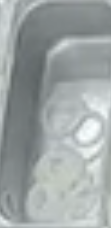
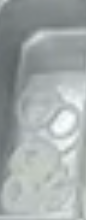
Color Analysis Onion

diff --git a/02. Color analysis/color_analysis_onion.py b/02. Color analysis/color_analysis_onion.py
@@ -3,83 +3,64 @@ import numpy as np
 import os
 import matplotlib.pyplot as plt
 
-def analyze_onion_true_fidelity(folder_path):
+def analyze_onion_narrow_band(folder_path):
     if not os.path.exists(folder_path):
         print("Error: Carpeta no encontrada.")
         return
 
     files = sorted([f for f in os.listdir(folder_path) if f.endswith('.png')])
+    if not files:
+        print("No se encontraron imágenes PNG.")
+        return
+
     results_data = []
 
-    print(f"{'ARCHIVO':<25} | {'% OCUPACIÓN':<15}")
+    print(f"{'ARCHIVO':<30} | {'% FINAL':<10}")
     print("-" * 45)
 
     for filename in files:
         path = os.path.join(folder_path, filename)
         img = cv2.imread(path)
         if img is None: continue
-
-        # 1. SUAVIZADO LIGERO
-        blur = cv2.GaussianBlur(img, (3, 3), 0)
-
-        # 2. LAB - CANAL B
-        lab = cv2.cvtColor(blur, cv2.COLOR_BGR2LAB)
-        l, a, b = cv2.split(lab)
-
-        # 3. UMBRAL FIEL (128)
-        # Atrapa todo lo que no sea fondo azul puro.
-        _, mask_heat = cv2.threshold(b, 130, 255, cv2.THRESH_BINARY)
-
-        # 4. PROTECCIÓN CONTRA BRILLOS
-        _, mask_glare = cv2.threshold(l, 250, 255, cv2.THRESH_BINARY)
-        mask = cv2.subtract(mask_heat, mask_glare)
-
-        # --- MARCO DE SEGURIDAD MÍNIMO ---
-        # Solo 5px para evitar ruido del borde extremo de la cámara.
-        h, w = mask.shape
-        cv2.rectangle(mask, (0,0), (w, h), 0, thickness=5)
-
-        # --- MORFOLOGÍA DE "FIDELIDAD" ---
-        # NO USAMOS CLOSE NI DILATE para no tapar huecos.
         
-        # Usamos OPEN suave (3x3) para separar islas que apenas se tocan.
-        # Esto permite que se formen múltiples contornos separados.
-        kernel_sep = np.ones((3,3), np.uint8)
-        mask = cv2.morphologyEx(mask, cv2.MORPH_OPEN, kernel_sep, iterations=1)
+        h_img, w_img = img.shape[:2]
 
-        # 5. FILTRO DE ÁREA (CERO)
-        # Si existe, se dibuja. Esto incluye migajas y huecos internos.
-        contours, hierarchy = cv2.findContours(mask, cv2.RETR_TREE, cv2.CHAIN_APPROX_SIMPLE)
-        mask_final = np.zeros_like(mask)
-        
-        # Dibujamos todos los contornos (externos e internos/huecos)
-        for i, cnt in enumerate(contours):
-            if cv2.contourArea(cnt) > 0:
-                # Usamos RETR_TREE y hierarchy para dibujar correctamente los huecos
-                cv2.drawContours(mask_final, contours, i, 255, -1, hierarchy=hierarchy)
-        mask = mask_final
+        # 1. ATENUACIÓN (Mantenemos tu idea de bajar brillo)
+        img_dimmed = cv2.convertScaleAbs(img, alpha=0.8, beta=0)
+        gray = cv2.cvtColor(img_dimmed, cv2.COLOR_BGR2GRAY)
 
-        # CALCULAR
-        food_pixels = cv2.countNonZero(mask)
-        total_pixels = img.shape[0] * img.shape[1]
+        # 2. FILTRO DE BANDA ESTRECHA (Solo lo Amarillo/Naranja)
+        # - Límite Inferior: 145 (Elimina Verde/Cyan)
+        # - Límite Superior: 170 (Elimina Rojo/Reflejos)
+        mask_final = cv2.inRange(gray, 145, 170)
+
+        # --- CÁLCULO ---
+        food_pixels = cv2.countNonZero(mask_final)
+        total_pixels = h_img * w_img
         percent = (food_pixels / total_pixels) * 100
 
-        # VISUALIZAR
+        # --- VISUALIZACIÓN ---
         img_visual = img.copy()
-        # Volvemos a buscar para dibujar la línea verde final
-        final_contours, final_hierarchy = cv2.findContours(mask, cv2.RETR_TREE, cv2.CHAIN_APPROX_SIMPLE)
-        # Grosor 1 para máxima precisión visual
-        cv2.drawContours(img_visual, final_contours, -1, (0, 255, 0), 1, hierarchy=final_hierarchy)
-        img_visual_rgb = cv2.cvtColor(img_visual, cv2.COLOR_BGR2RGB)
+        
+        # Usamos RETR_TREE para ver huecos
+        contours_full, _ = cv2.findContours(mask_final, cv2.RETR_TREE, cv2.CHAIN_APPROX_NONE)
 
-        # MAPA DE CALOR (Referencia visual)
-        heatmap = cv2.normalize(b, None, 0, 255, cv2.NORM_MINMAX)
-        heatmap = cv2.applyColorMap(heatmap, cv2.COLORMAP_JET)
-        heatmap_rgb = cv2.cvtColor(heatmap, cv2.COLOR_BGR2RGB)
+        for cnt in contours_full:
+            if cv2.contourArea(cnt) > 0: 
+                cv2.drawContours(img_visual, [cnt], -1, (0, 255, 0), 2)
+        
+        # Mapa de calor
+        heatmap_view = cv2.applyColorMap(gray, cv2.COLORMAP_JET)
 
-        state_name = filename.split('.')[1].replace('_', ' ').title().strip()
-        results_data.append({'name': state_name, 'percent': percent, 'image': img_visual_rgb, 'heatmap': heatmap_rgb})
-        print(f"{filename:<25} | {percent:6.2f}%")
+        # CORRECCIÓN: Limpiamos el nombre quitando '.png'
+        state_name = filename.replace('.png', '')
+        
+        results_data.append({'name': state_name, 'percent': percent, 
+                             'image': cv2.cvtColor(img_visual, cv2.COLOR_BGR2RGB), 
+                             'heatmap': cv2.cvtColor(heatmap_view, cv2.COLOR_BGR2RGB)})
+        
+        # Imprimimos el nombre limpio
+        print(f"{state_name:<30} | {percent:6.2f}%")
 
     # GRAFICAR
     if not results_data: return
@@ -89,24 +70,25 @@ def analyze_onion_true_fidelity(folder_path):
     rows = math.ceil(num_images / cols) 
     
     fig = plt.figure(figsize=(16, 5 * rows))
-    plt.suptitle("Detección Fiel (Islas y Huecos basados en Mapa de Calor)", fontsize=16)
+    plt.suptitle("Onion", fontsize=16)
 
     for i in range(num_images):
         r = (i // cols); c = (i % cols)
+        
         ax_img = fig.add_subplot(rows * 2, cols, (r * 2 * cols) + c + 1)
         data = results_data[i]
         ax_img.imshow(data['image'])
-        ax_img.set_title(f"{data['name']}\n{data['percent']:.1f}%", fontsize=12, fontweight='bold')
+        ax_img.set_title(f"{data['name']}\n{data['percent']:.1f}%", fontsize=10, fontweight='bold')
         ax_img.axis('off')
 
         ax_heat = fig.add_subplot(rows * 2, cols, ((r * 2 + 1) * cols) + c + 1)
         ax_heat.imshow(data['heatmap'])
-        ax_heat.set_title("Mapa de Calor (Referencia)", fontsize=9)
+        ax_heat.set_title("Mapa de Calor", fontsize=9)
         ax_heat.axis('off')
 
     plt.tight_layout()
     plt.show()
 
 if __name__ == "__main__":
-    folder = "color_analysis/onion" 
-    analyze_onion_true_fidelity(folder)
+    folder = r"02. Color analysis\color_analysis\onion" 
+    analyze_onion_narrow_band(folder)

diff --git a/02. Color analysis/color_analysis_onion_README.md b/02. Color analysis/color_analysis_onion_README.md
@@ -1,0 +1,70 @@
+# Informe Técnico: Algoritmo de Segmentación Cromática y de Intensidad para Detección de Vegetales en Superficies Reflectantes
+
+**Fecha:** 26 de Noviembre, 2025  
+**Contexto:** Visión por Computador / Procesamiento de Imágenes  
+**Objeto de Estudio:** Segmentación de cebolla procesada en bandejas de acero inoxidable.
+
+---
+
+## 1. Resumen Ejecutivo
+El presente documento describe la metodología algorítmica implementada para la cuantificación automática de producto (cebolla) sobre contenedores metálicos. El desafío principal abordado es la **discriminación de luminancia** entre la materia orgánica (cebolla blanca/amarilla) y la superficie inorgánica (acero inoxidable), las cuales presentan coeficientes de reflexión similares, agravado por la presencia de reflejos especulares (glare) de la iluminación ambiental.
+
+La solución implementada evita el uso de modelos de aprendizaje profundo (Deep Learning) en favor de técnicas clásicas de **procesamiento de histograma y filtrado espacial**, optimizando el costo computacional y garantizando determinismo en los resultados.
+
+---
+
+## 2. Metodología
+
+El flujo de procesamiento (pipeline) consta de tres etapas fundamentales basadas en la física de la formación de la imagen:
+
+### 2.1. Transformación Lineal de Intensidad (Linear Contrast Scaling)
+
+Para mitigar la saturación provocada por los reflejos del metal y separarlos del albedo natural de la cebolla, se aplica una operación de punto de **reducción de ganancia**.
+
+Matemáticamente, la imagen de entrada $f(x,y)$ se transforma en $g(x,y)$ mediante la ecuación:
+
+$$g(x,y) = \alpha \cdot f(x,y) + \beta$$
+
+Donde:
+* **$\alpha = 0.8$ (Factor de escala):** Comprime el rango dinámico del histograma. Esto desplaza los valores de la cebolla (originalmente cercanos a la saturación) hacia la zona media del histograma, mientras que los reflejos especulares (saturación pura) se mantienen en el extremo superior, permitiendo su posterior separación.
+* **$\beta = 0$ (Offset):** No se aplica desplazamiento de brillo.
+
+**Objetivo Técnico:** Aumentar la separabilidad inter-clase entre los píxeles de "Materia Orgánica" y "Reflejo Especular".
+
+### 2.2. Segmentación por Corte de Intensidad (Intensity Slicing)
+
+Se implementa un **Filtro de Paso de Banda (Band-Pass Filter)** en el dominio de la intensidad de gris. A diferencia de la umbralización binaria simple ($T > x$), esta técnica define un intervalo de aceptación $[T_{min}, T_{max}]$ que actúa como una función rectangular de selección.
+
+Se genera una máscara binaria $M(x,y)$ tal que:
+
+$$M(x,y) = \begin{cases} 1 & \text{si } 145 \le g(x,y) \le 170 \\ 0 & \text{en otro caso} \end{cases}$$
+
+**Justificación de los Umbrales:**
+* **Límite Inferior ($T_{min} = 145$):** Rechazo de la banda de baja frecuencia (fondo metálico oscuro, sombras y tonos verdosos/cian en la visualización térmica).
+* **Límite Superior ($T_{max} = 170$):** Rechazo de la banda de alta frecuencia (reflejos especulares y zonas de saturación, correspondientes a los tonos rojos en la visualización térmica).
+* **Zona de Paso (Band-Pass):** Captura exclusiva de la "zona media-alta" del histograma, correspondiente a la pigmentación natural de la cebolla (tonos amarillos/naranjas).
+
+### 2.3. Extracción de Fronteras Topológicas (Boundary Extraction)
+
+Para la cuantificación del área, se extraen los contornos vectoriales de la máscara binaria $M(x,y)$. Se utiliza el algoritmo de **Seguimiento de Bordes (Border Following)** con dos características críticas:
+
+1.  **Análisis Topológico (`cv2.RETR_TREE`):**
+    El algoritmo recupera la jerarquía completa de los contornos anidados. Esto permite detectar no solo el perímetro exterior de la masa vegetal, sino también los **agujeros interiores**.
+    * *Aplicación:* Si una sección de la cebolla presenta un brillo excesivo (glare), el paso 2.2 la elimina (hueco negro). El análisis topológico identifica este hueco como "no perteneciente" al cálculo de área, mejorando la precisión.
+
+2.  **Codificación de Cadena No-Aproximada (`cv2.CHAIN_APPROX_NONE`):**
+    Se evita la aplicación de algoritmos de simplificación poligonal (como Ramer-Douglas-Peucker). Se almacenan todos los puntos $(x,y)$ de la frontera.
+    * *Resultado:* Se obtiene una representación morfológica **fiel y "pixel-perfecta"**, evitando la suavización artificial de los bordes que podría introducir errores de medición en texturas irregulares.
+
+---
+
+## 3. Resultados y Visualización
+
+La eficacia del algoritmo se valida mediante mapas de calor (Heatmaps) aplicados a la imagen en escala de grises pre-procesada:
+
+* **Zonas Frías (Azul/Verde):** Rechazadas por $T_{min}$ (Fondo).
+* **Zonas Cálidas (Naranja/Amarillo):** Aceptadas por el filtro de banda (Cebolla).
+* **Zonas Críticas (Rojo):** Rechazadas por $T_{max}$ (Reflejos).
+
+### Conclusión Técnica
+La combinación de **escalado lineal** previo a un **filtrado de banda estrecha** demuestra ser una estrategia robusta para entornos con iluminación no controlada sobre superficies metálicas, logrando aislar la materia de interés sin necesidad de entrenamiento de modelos estocásticos.

diff --git a/color_analysis_bacon_README.md b/color_analysis_bacon_README.md
@@ -1,0 +1,63 @@
+# Informe Técnico: Algoritmo de Segmentación Espectral para Detección de Proteína Cárnica (Tocino)
+
+**Fecha:** 26 de Noviembre, 2025  
+**Contexto:** Visión por Computador / Procesamiento de Imágenes  
+**Objeto de Estudio:** Segmentación de tocino frito en bandejas de acero inoxidable.
+
+---
+
+## 1. Resumen Ejecutivo
+El presente documento detalla la metodología algorítmica para la cuantificación de tocino. A diferencia de los vegetales claros, la proteína cárnica presenta una firma espectral distintiva en el canal rojo. La solución implementada explota la **aritmética de canales** para anular el fondo metálico (acromático) y utiliza una estrategia de **fusión de sensores virtuales** (RGB + HSV) para recuperar zonas de baja luminancia (zonas "quemadas" o muy oscuras).
+
+---
+
+## 2. Metodología
+
+El algoritmo evita el uso de umbralización simple por brillo, dado que la grasa del tocino y el metal pueden compartir niveles de intensidad. Se opta por un enfoque basado en crominancia:
+
+### 2.1. Diferenciación Espectral de Canales (Channel Subtraction)
+
+Se aprovecha la propiedad física de la superficie metálica: al ser gris/plateada, refleja la luz de manera uniforme en todo el espectro visible ($R \approx G \approx B$). Por el contrario, el tocino presenta una dominancia en la longitud de onda larga (Rojo).
+
+Se calcula una imagen de diferencia $D(x,y)$ mediante la sustracción aritmética del canal Verde ($G$) sobre el canal Rojo ($R$):
+
+$$D(x,y) = R(x,y) - G(x,y)$$
+
+**Fundamento Físico:**
+* **Fondo Metálico:** Como $R \approx G$, entonces $R - G \to 0$ (El fondo se vuelve negro).
+* **Tocino:** Como $R \gg G$, entonces $R - G \to \text{Valor Alto}$ (El objeto se resalta).
+
+### 2.2. Expansión del Rango Dinámico (Histogram Normalization)
+
+La señal resultante de la diferencia $D(x,y)$ puede tener un contraste bajo. Para garantizar una binarización robusta, se aplica una **Normalización Min-Max** para estirar el histograma y ocupar todo el rango de 8 bits $[0, 255]$:
+
+$$N(x,y) = \frac{D(x,y) - \min(D)}{\max(D) - \min(D)} \times 255$$
+
+Posteriormente, se aplica una umbralización binaria con corte en $T=135$ para aislar las zonas de alta crominancia roja.
+
+### 2.3. Fusión Multi-Espectral (RGB + HSV Fusion)
+
+La sustracción de canales (Paso 2.1) es excelente para la carne roja, pero falla en zonas carbonizadas o muy oscuras (donde $R$ y $G$ son ambos muy bajos). Para mitigar esto, se introduce una vía paralela de detección en el espacio de color **HSV (Matiz, Saturación, Valor)**.
+
+Se genera una máscara secundaria $M_{dark}$ dirigida específicamente a tonos marrones/oscuros:
+* **Matiz ($H$):** Rango $[0, 180]$ (Todo el espectro de rojos/naranjas).
+* **Saturación ($S$):** Rango $[20, 255]$ (Para evitar grises).
+* **Valor ($V$):** Rango $[0, 60]$ (Exclusivamente zonas muy oscuras).
+
+Finalmente, se realiza una operación lógica **OR (Unión)** entre la máscara espectral y la máscara HSV:
+
+$$M_{final} = M_{spectral} \cup M_{dark}$$
+
+### 2.4. Extracción de Fronteras de Alta Fidelidad
+
+Dado que el producto (tocino) presenta bordes irregulares y texturas finas que son críticas para una medición precisa del área, se ha suprimido deliberadamente cualquier operación de **Filtrado Morfológico** (Erosión/Dilatación).
+
+Se utiliza la extracción de contornos con codificación de cadena completa:
+* **Algoritmo:** `cv2.findContours` con `cv2.CHAIN_APPROX_NONE`.
+* **Justificación:** Se preserva la rugosidad natural del borde del objeto. La aproximación poligonal o el suavizado morfológico introducirían un sesgo negativo en el cálculo del área al "recortar" las irregularidades microscópicas propias de la textura del tocino.
+
+---
+
+## 3. Conclusión Técnica
+
+La estrategia implementada combina la **selectividad cromática** (para eliminar el fondo metálico que actúa como espejo neutro) con la **robustez en baja luminancia** del espacio HSV. La decisión de evitar el suavizado morfológico garantiza que la métrica de ocupación refleje la geometría real y "cruda" del producto, maximizando la precisión en la estimación de cobertura.
